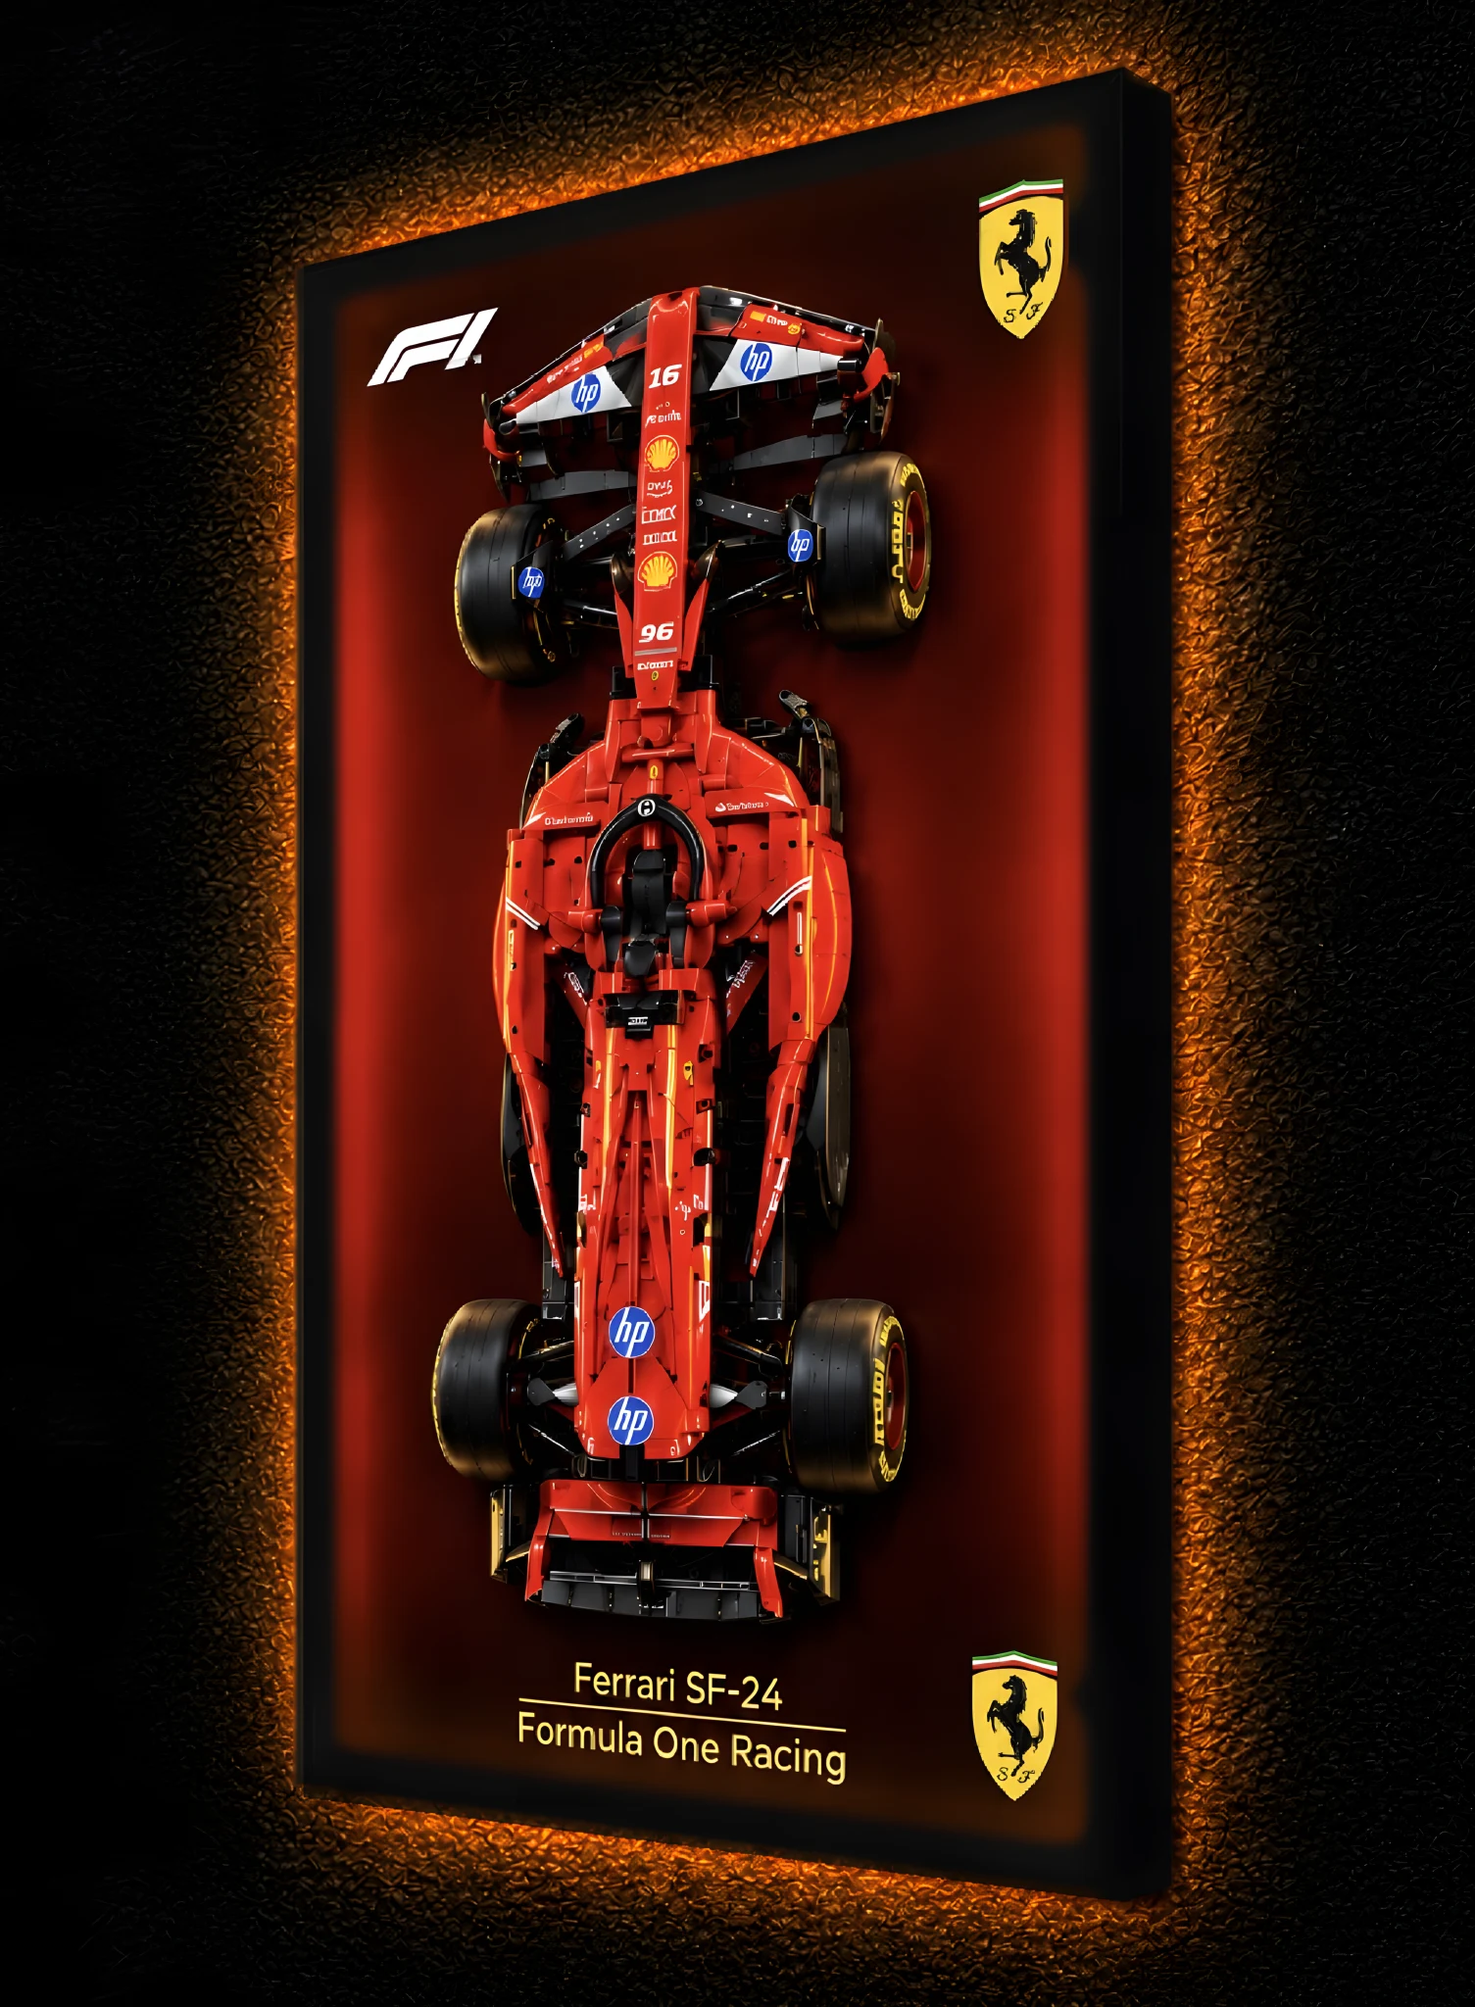
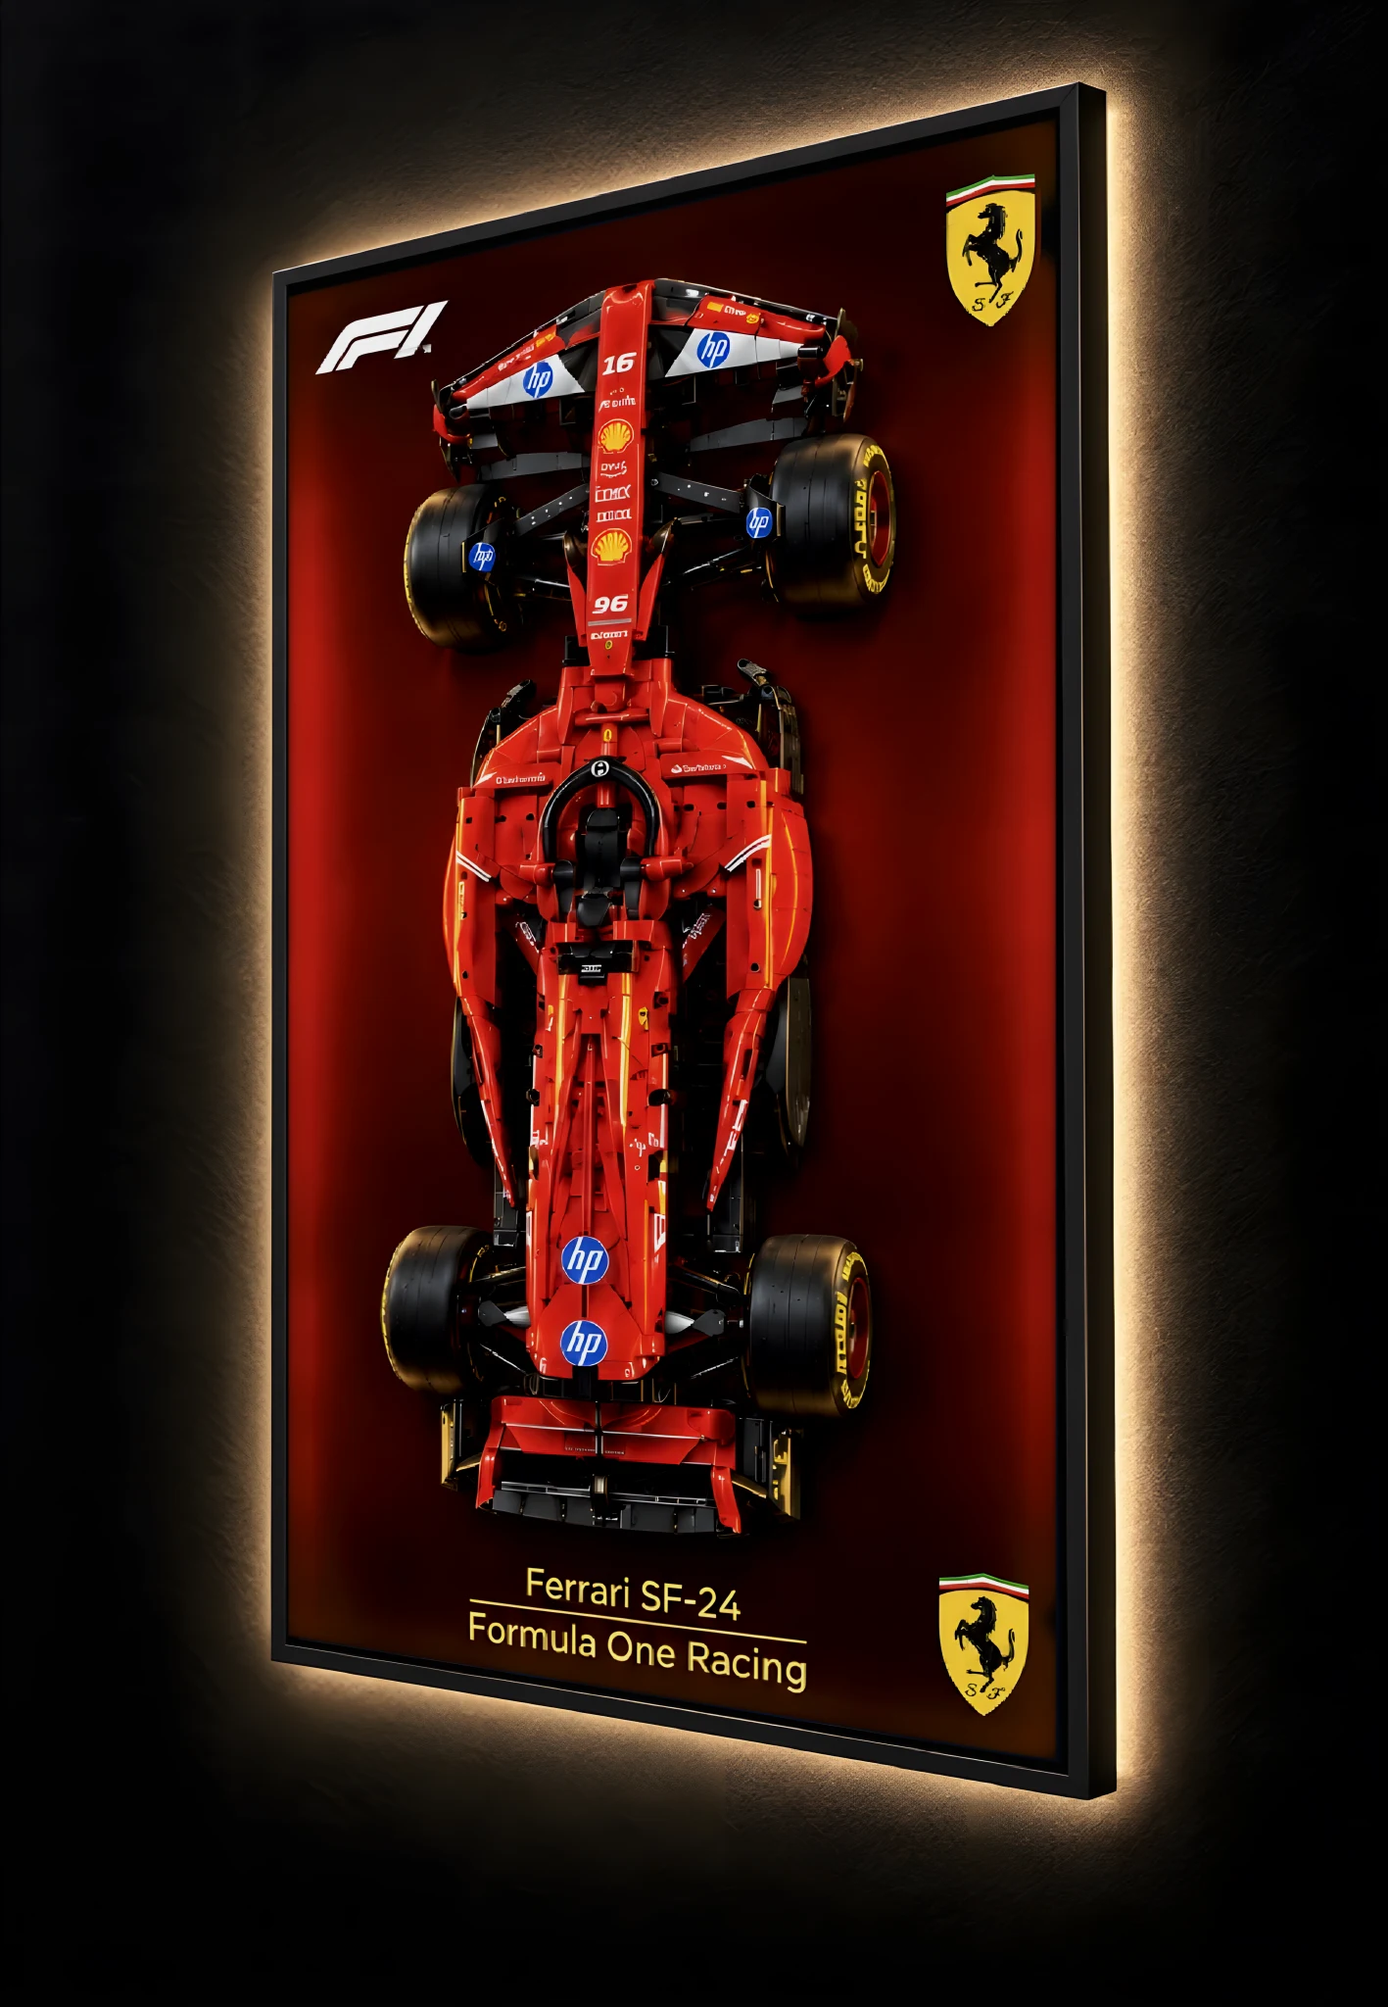
Drop-in frames, all three visible on phones, studio-matched side photos
- Hero: frames fall in one after another, bounce onto their nail and
  swing to rest before their LEDs switch on (skipped with reduced
  motion). Portrait screens now fit the whole row with tighter spacing
  instead of a one-frame carousel, and the list shows all three.
- Side photos: the Mercedes and Ferrari posters are perspective-warped
  into the RB-20 shot and exposure-matched, so all three share the same
  wall, frame, angle and warm light, as if shot in one studio.

Claude-Session: https://claude.ai/code/session_0152wLRBmtu3EhAGdcuZqTLU

diff --git a/storefront-lego-f1/src/three/GalleryWall.jsx b/storefront-lego-f1/src/three/GalleryWall.jsx
@@ -6,7 +6,7 @@ import * as THREE from 'three'
 import { LedFrame, FRAME_W, FRAME_H } from './LedFrame.jsx'
 
 // Pared de la galería: los cuadros cuelgan sobre una pared oscura texturizada.
-// Al entrar, los LED se encienden uno por uno con parpadeo de neón.
+// Al entrar, los cuadros caen uno por uno, se balancean y luego se encienden sus LED.
 // Pasar el cursor inclina el cuadro hacia ti, sube el LED y hace girar las ruedas.
 
 const GAP = 1.3
@@ -35,12 +35,63 @@ export function useWallTexture() {
   }, [])
 }
 
-function HangingFrame({ product, index, total, onSelect, onHover }) {
+const REDUCED_MOTION =
+  typeof window !== 'undefined' && window.matchMedia?.('(prefers-reduced-motion: reduce)').matches
+
+// Separación entre cuadros: en pantallas verticales (celular) van más juntos para que quepan los tres
+function spacingFor(aspect) {
+  return FRAME_W + (aspect < 1 ? 0.3 : GAP)
+}
+
+// Caída de entrada: cada cuadro cae desde arriba, rebota al "engancharse" en el clavo
+// y se balancea hasta quedar quieto. Luego se encienden sus luces.
+const DROP_HEIGHT = 9
+const GRAVITY = 34
+const DROP_START = 0.25
+const DROP_STAGGER = 0.28
+const FALL_TIME = Math.sqrt((2 * DROP_HEIGHT) / GRAVITY)
+
+function HangingFrame({ product, index, x, onSelect, onHover }) {
+  const drop = useRef()
   const ref = useRef()
   const [hovered, setHovered] = useState(false)
-  const x = (index - (total - 1) / 2) * SPACING
+  const sim = useRef({
+    y: REDUCED_MOTION ? 0 : DROP_HEIGHT,
+    vy: 0,
+    rz: 0,
+    vrz: 0,
+    t: 0,
+    done: REDUCED_MOTION,
+  })
+  const startAt = DROP_START + index * DROP_STAGGER
 
-  useFrame(({ pointer }, dt) => {
+  useFrame(({ pointer }, rawDt) => {
+    const dt = Math.min(rawDt, 1 / 30)
+    const st = sim.current
+    if (!st.done) {
+      st.t += dt
+      if (st.t > startAt) {
+        st.vy -= GRAVITY * dt
+        st.y += st.vy * dt
+        if (st.y <= 0) {
+          const impact = -st.vy
+          st.y = 0
+          st.vy = impact > 1.2 ? impact * 0.22 : 0
+          // el golpe lo hace balancearse, cada cuadro hacia un lado distinto
+          st.vrz += impact * 0.006 * (index % 2 ? 1 : -1)
+        }
+      }
+      // balanceo amortiguado sobre el clavo
+      st.vrz += (-38 * st.rz - 2.4 * st.vrz) * dt
+      st.rz += st.vrz * dt
+      if (st.t > startAt + FALL_TIME + 3 && Math.abs(st.rz) < 0.0005 && st.y === 0) {
+        st.done = true
+        st.rz = 0
+      }
+    }
+    drop.current.position.y = st.y
+    drop.current.rotation.z = st.rz
+
     const g = ref.current
     // Inclinación suave para que se note el relieve del LEGO, sin perder la fila
     const tx = hovered ? -pointer.y * 0.14 : 0
@@ -51,53 +102,87 @@ function HangingFrame({ product, index, total, onSelect, onHover }) {
   })
 
   return (
-    <group position={[x, 0, 0]}>
-      <group
-        ref={ref}
-        onPointerOver={(e) => {
-          e.stopPropagation()
-          setHovered(true)
-          onHover(index)
-          document.body.style.cursor = 'pointer'
-        }}
-        onPointerOut={() => {
-          setHovered(false)
-          document.body.style.cursor = ''
-        }}
-        onClick={(e) => {
-          e.stopPropagation()
-          onSelect(product)
-        }}
-      >
-        <LedFrame product={product} hovered={hovered} introDelay={0.6 + index * 0.45} />
+    // El pivote del balanceo está arriba, donde iría el clavo
+    <group position={[x, FRAME_H / 2, 0]}>
+      <group ref={drop}>
+        <group position={[0, -FRAME_H / 2, 0]}>
+          <group
+            ref={ref}
+            onPointerOver={(e) => {
+              e.stopPropagation()
+              setHovered(true)
+              onHover(index)
+              document.body.style.cursor = 'pointer'
+            }}
+            onPointerOut={() => {
+              setHovered(false)
+              document.body.style.cursor = ''
+            }}
+            onClick={(e) => {
+              e.stopPropagation()
+              onSelect(product)
+            }}
+          >
+            <LedFrame
+              product={product}
+              hovered={hovered}
+              introDelay={REDUCED_MOTION ? 0.3 + index * 0.3 : startAt + FALL_TIME + 0.35}
+            />
+          </group>
+        </group>
       </group>
     </group>
   )
 }
 
-function CameraRig({ total, active }) {
+function CameraRig({ total, spacing }) {
   const { camera, size } = useThree()
   useFrame(({ pointer }, dt) => {
     const aspect = size.width / size.height
-    const carousel = aspect < 1.05
+    const portrait = aspect < 1
     const fov = THREE.MathUtils.degToRad(camera.fov)
-    const fitW = carousel ? SPACING * 1.02 : total * SPACING + 0.4
+    // Siempre se ven los tres cuadros completos, también en el celular
+    const fitW = total * spacing + (portrait ? 0.5 : 0.4)
     const distW = fitW / 2 / Math.tan(fov / 2) / aspect
     const distH = (FRAME_H + 2.4) / 2 / Math.tan(fov / 2)
     const dist = Math.max(distW, distH)
-    const focusX = carousel ? (active - (total - 1) / 2) * SPACING : 0
+    // En vertical el texto ocupa la parte de abajo: los cuadros suben al tercio superior
+    const visibleH = 2 * dist * Math.tan(fov / 2)
+    const baseY = portrait ? -visibleH * 0.16 : -0.95
 
     // Cámara de frente y a la altura de los cuadros: todos quedan derechos y en línea
-    camera.position.x = THREE.MathUtils.damp(camera.position.x, focusX + pointer.x * 0.12, 2.5, dt)
-    camera.position.y = THREE.MathUtils.damp(camera.position.y, -0.95 + pointer.y * 0.08, 2.5, dt)
+    camera.position.x = THREE.MathUtils.damp(camera.position.x, pointer.x * 0.12, 2.5, dt)
+    camera.position.y = THREE.MathUtils.damp(camera.position.y, baseY + pointer.y * 0.08, 2.5, dt)
     camera.position.z = THREE.MathUtils.damp(camera.position.z, dist, 2.5, dt)
     camera.lookAt(camera.position.x, camera.position.y, 0)
   })
   return null
 }
 
+function Frames({ products, onActiveChange, onSelect }) {
+  const size = useThree((state) => state.size)
+  const spacing = spacingFor(size.width / size.height)
+  return (
+    <>
+      <Suspense fallback={null}>
+        {products.map((p, i) => (
+          <HangingFrame
+            key={p.id}
+            product={p}
+            index={i}
+            x={(i - (products.length - 1) / 2) * spacing}
+            onHover={onActiveChange}
+            onSelect={onSelect}
+          />
+        ))}
+      </Suspense>
+      <CameraRig total={products.length} spacing={spacing} />
+    </>
+  )
+}
+
 // paused: el visor de producto está abierto encima, así que la pared deja de dibujar
-export function GalleryWall({ products, active, onActiveChange, onSelect, paused = false }) {
+export function GalleryWall({ products, onActiveChange, onSelect, paused = false }) {
   const wall = useWallTexture()
   return (
     <Canvas
@@ -125,29 +210,26 @@ export function GalleryWall({ products, active, onActiveChange, onSelect, paused
       />
 
       <mesh position={[0, 0, -0.06]} receiveShadow>
-        <planeGeometry args={[70, 24]} />
+        <planeGeometry args={[70, 40]} />
         <meshStandardMaterial color="#1a1a1c" roughness={0.95} bumpMap={wall} bumpScale={1.4} />
       </mesh>
 
-      <Suspense fallback={null}>
-        {products.map((p, i) => (
-          <HangingFrame
-            key={p.id}
-            product={p}
-            index={i}
-            total={products.length}
-            onHover={onActiveChange}
-            onSelect={onSelect}
-          />
-        ))}
-      </Suspense>
-
-      <CameraRig total={products.length} active={active} />
+      <Frames products={products} onActiveChange={onActiveChange} onSelect={onSelect} />
 
       <Environment resolution={256}>
         <Lightformer intensity={2} position={[0, 4, 4]} scale={[10, 2, 1]} />
-        <Lightformer intensity={0.7} position={[-6, 0, 3]} rotation-y={Math.PI / 3} scale={[4, 6, 1]} />
-        <Lightformer intensity={0.7} position={[6, 0, 3]} rotation-y={-Math.PI / 3} scale={[4, 6, 1]} />
+        <Lightformer
+          intensity={0.7}
+          position={[-6, 0, 3]}
+          rotation-y={Math.PI / 3}
+          scale={[4, 6, 1]}
+        />
+        <Lightformer
+          intensity={0.7}
+          position={[6, 0, 3]}
+          rotation-y={-Math.PI / 3}
+          scale={[4, 6, 1]}
+        />
       </Environment>
 
       <EffectComposer multisampling={4}>

diff --git a/storefront-lego-f1/src/App.jsx b/storefront-lego-f1/src/App.jsx
@@ -1,6 +1,6 @@
 import { lazy, Suspense, useCallback, useEffect, useState } from 'react'
 import { AnimatePresence, motion } from 'motion/react'
-import { ArrowLeft, ArrowRight, Cube, ShoppingBag } from '@phosphor-icons/react'
+import { Cube, ShoppingBag } from '@phosphor-icons/react'
 import { fetchCatalog, formatMoney, isShopifyConfigured } from './lib/shopify.js'
 import { DEMO_PRODUCTS } from './lib/demoProducts.js'
 import { useCart } from './lib/useCart.js'
@@ -13,8 +13,14 @@ const GalleryWall = lazy(() =>
 
 // Ajusta estos textos a las características reales de tus cuadros.
 const SPECS = [
-  ['Auto LEGO Technic armado', 'El modelo completo, armado pieza por pieza y fijado al fondo en vista cenital, con sus ruedas, alerones y suspensión.'],
-  ['Luz LED', 'Línea de luz alrededor del póster o retroiluminación que baña la pared, según el modelo.'],
+  [
+    'Auto LEGO Technic armado',
+    'El modelo completo, armado pieza por pieza y fijado al fondo en vista cenital, con sus ruedas, alerones y suspensión.',
+  ],
+  [
+    'Luz LED',
+    'Línea de luz alrededor del póster o retroiluminación que baña la pared, según el modelo.',
+  ],
   ['Fondo del equipo', 'Póster con el color de la escudería y el nombre del auto al pie.'],
   ['Marco negro', 'Perfil delgado negro mate para que todo el protagonismo sea del auto.'],
 ]
@@ -46,7 +52,6 @@ export default function App() {
     [add],
   )
 
-  const step = (d) => setActive((i) => (i + d + products.length) % products.length)
   const current = products[active] ?? products[0]
 
   return (
@@ -56,8 +61,12 @@ export default function App() {
           {shopName}
         </a>
         <nav className="flex items-center gap-6 text-sm">
-          <a href="#coleccion" className="hidden text-dim transition hover:text-chalk sm:block">Colección</a>
-          <a href="#detalles" className="hidden text-dim transition hover:text-chalk sm:block">Detalles</a>
+          <a href="#coleccion" className="hidden text-dim transition hover:text-chalk sm:block">
+            Colección
+          </a>
+          <a href="#detalles" className="hidden text-dim transition hover:text-chalk sm:block">
+            Detalles
+          </a>
           <button
             onClick={() => setCartOpen(true)}
             className="relative grid size-11 place-items-center rounded-full border border-line bg-pit/70 backdrop-blur transition hover:border-chalk"
@@ -79,7 +88,6 @@ export default function App() {
           <div className="absolute inset-0">
             <GalleryWall
               products={products}
-              active={active}
               onActiveChange={setActive}
               onSelect={setSelected}
               paused={Boolean(selected)}
@@ -94,23 +102,16 @@ export default function App() {
                 Tu F1 favorito, colgado en tu pared.
               </h1>
               <p className="mt-3 max-w-[48ch] text-[15px] leading-relaxed text-dim">
-                Autos LEGO Technic de Fórmula 1 montados en cuadros con luz LED. Pasa el cursor
-                para acercarlos y haz clic para verlos en 3D, de frente y de lado.
+                Autos LEGO Technic de Fórmula 1 montados en cuadros con luz LED. Toca un cuadro para
+                verlo en 3D, de frente y de lado.
               </p>
             </div>
 
             {/* Torre de tiempos: selector de cuadros */}
-            <div className="pointer-events-auto flex items-center gap-3">
-              <button
-                onClick={() => step(-1)}
-                className="grid size-11 place-items-center rounded-full border border-line transition hover:border-chalk md:hidden"
-                aria-label="Cuadro anterior"
-              >
-                <ArrowLeft size={16} />
-              </button>
+            <div className="pointer-events-auto">
               <ol className="w-full min-w-[260px] divide-y divide-line rounded-2xl border border-line bg-pit/80 font-mono text-xs backdrop-blur md:w-[320px]">
                 {products.map((p, i) => (
-                  <li key={p.id} className={i === active ? '' : 'hidden md:block'}>
+                  <li key={p.id}>
                     <button
                       onMouseEnter={() => setActive(i)}
                       onFocus={() => setActive(i)}
@@ -118,20 +119,19 @@ export default function App() {
                       className="flex w-full items-center gap-3 px-4 py-3 text-left"
                     >
                       <span className={i === active ? 'text-signal' : 'text-dim'}>P{i + 1}</span>
-                      <span className="size-2.5 rounded-sm" style={{ background: p.model.backdrop.center, boxShadow: `0 0 8px ${p.model.led.halo ?? p.model.led.border}` }} />
+                      <span
+                        className="size-2.5 rounded-sm"
+                        style={{
+                          background: p.model.backdrop.center,
+                          boxShadow: `0 0 8px ${p.model.led.halo ?? p.model.led.border}`,
+                        }}
+                      />
                       <span className="flex-1 truncate uppercase tracking-wider">{p.title}</span>
                       <span className="text-dim">{formatMoney(p.price)}</span>
                     </button>
                   </li>
                 ))}
               </ol>
-              <button
-                onClick={() => step(1)}
-                className="grid size-11 place-items-center rounded-full border border-line transition hover:border-chalk md:hidden"
-                aria-label="Cuadro siguiente"
-              >
-                <ArrowRight size={16} />
-              </button>
             </div>
           </div>
         </div>
@@ -142,9 +142,13 @@ export default function App() {
         <div className="mb-12 flex flex-wrap items-end justify-between gap-4">
           <h2 className="text-3xl font-semibold tracking-tighter md:text-5xl">La colección</h2>
           {!isShopifyConfigured && (
-            <p className="font-mono text-xs uppercase tracking-widest text-dim">Catálogo de muestra</p>
+            <p className="font-mono text-xs uppercase tracking-widest text-dim">
+              Catálogo de muestra
+            </p>
           )}
-          {loadError && <p className="text-sm text-red-400">No se pudo cargar Shopify: {loadError}</p>}
+          {loadError && (
+            <p className="text-sm text-red-400">No se pudo cargar Shopify: {loadError}</p>
+          )}
         </div>
 
         <ul className="divide-y divide-line border-y border-line">
@@ -163,10 +167,17 @@ export default function App() {
                 <span className="font-mono text-sm text-dim">{p.number}</span>
                 <div
                   className="hidden aspect-[4/5] w-full overflow-hidden rounded-lg border border-line md:block"
-                  style={{ background: `radial-gradient(circle at 50% 40%, ${p.model.backdrop.center}, ${p.model.backdrop.edge})` }}
+                  style={{
+                    background: `radial-gradient(circle at 50% 40%, ${p.model.backdrop.center}, ${p.model.backdrop.edge})`,
+                  }}
                 >
                   {p.image && (
-                    <img src={p.image} alt={p.title} loading="lazy" className="size-full object-cover" />
+                    <img
+                      src={p.image}
+                      alt={p.title}
+                      loading="lazy"
+                      className="size-full object-cover"
+                    />
                   )}
                 </div>
                 <div>
@@ -215,7 +226,9 @@ export default function App() {
       </section>
 
       <footer className="mx-auto flex max-w-[1400px] flex-wrap justify-between gap-4 px-5 py-10 font-mono text-xs text-dim md:px-10">
-        <span>© {new Date().getFullYear()} {shopName}</span>
+        <span>
+          © {new Date().getFullYear()} {shopName}
+        </span>
         <span className="max-w-[70ch]">
           LEGO®, Technic y las marcas de los equipos de F1 pertenecen a sus respectivos dueños.
         </span>
